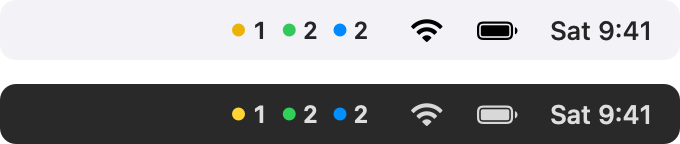
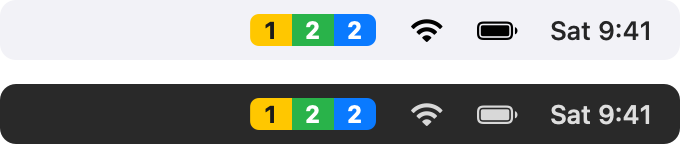
Menu bar badge: solid colour blocks instead of dots
One rounded pill split into yellow, green and blue blocks with the
counts inside. Empty blocks fade so the ones with sessions stand out.
Update the README screenshot and DESIGN.

Changed region(s): [[0.3397, 0.6667, 0.5559, 0.9167], [0.3397, 0.0833, 0.5559, 0.3333]]

diff --git a/app/main.swift b/app/main.swift
@@ -1,6 +1,6 @@
 // Agent Status: the menu bar app.
 //
-// Shows a three-colour badge in the menu bar (waiting for you · running · finished,
+// Shows a three-colour block badge in the menu bar (waiting for you · running · finished,
 // unread) and, on click, a panel listing those sessions. Click a session to jump
 // back to it.
 //
@@ -71,6 +71,20 @@ enum Kind: String, CaseIterable {
         case .running: return .systemGreen
         case .unread: return .systemBlue
         }
+    }
+
+    /// Solid fill for the menu bar block: saturated enough to read at a glance in any menu bar.
+    var blockNSColor: NSColor {
+        switch self {
+        case .waiting: return NSColor(srgbRed: 1.00, green: 0.78, blue: 0.00, alpha: 1)
+        case .running: return NSColor(srgbRed: 0.16, green: 0.70, blue: 0.29, alpha: 1)
+        case .unread: return NSColor(srgbRed: 0.04, green: 0.48, blue: 1.00, alpha: 1)
+        }
+    }
+
+    /// Count colour on a filled block: dark on yellow, white on green and blue.
+    var blockTextNSColor: NSColor {
+        self == .waiting ? NSColor(white: 0.10, alpha: 1) : .white
     }
 
     var dotColor: Color { Color(nsColor: dotNSColor) }
@@ -209,37 +223,37 @@ final class Store: ObservableObject {
 
 // MARK: - Badge
 
-/// Three always-visible status lights (waiting · running · unread) with tabular counts.
+/// One continuous pill of solid colour blocks (waiting · running · unread), each with its count.
+/// Blocks with no sessions are faded so the ones that matter stand out.
 func badgeImage(_ snap: Snapshot) -> NSImage {
-    let dotSize: CGFloat = 6.5
-    let dotTextGap: CGFloat = 3.5
-    let itemGap: CGFloat = 7.5
-    let sidePad: CGFloat = 3
-    let height: CGFloat = 18
+    let height: CGFloat = 18, pillH: CGFloat = 16, radius: CGFloat = 4.5
+    let minSeg: CGFloat = 20, segPad: CGFloat = 6
 
-    let items = Kind.badgeOrder.map { kind -> (Kind, Int, String, NSFont, NSSize) in
+    let items = Kind.badgeOrder.map { kind -> (Kind, Int, String, NSFont, NSSize, CGFloat) in
         let count = snap.count(kind)
         let text = count > 99 ? "99+" : String(count)
-        let font = NSFont.monospacedDigitSystemFont(ofSize: 12, weight: count > 0 ? .semibold : .regular)
+        let font = NSFont.monospacedDigitSystemFont(ofSize: 12, weight: .bold)
         let size = (text as NSString).size(withAttributes: [.font: font])
-        return (kind, count, text, font, size)
+        return (kind, count, text, font, size, max(minSeg, ceil(size.width) + segPad * 2))
     }
-    let contentWidth = items.reduce(CGFloat(0)) { $0 + dotSize + dotTextGap + $1.4.width }
-        + CGFloat(max(0, items.count - 1)) * itemGap
-    let totalWidth = sidePad * 2 + contentWidth
+    let width = items.reduce(CGFloat(0)) { $0 + $1.5 }
 
-    let image = NSImage(size: NSSize(width: ceil(totalWidth), height: height), flipped: false) { _ in
-        var x = sidePad
-        for (kind, count, text, font, size) in items {
-            let dotColor = count > 0 ? kind.dotNSColor : kind.dotNSColor.withAlphaComponent(0.60)
-            dotColor.setFill()
-            NSBezierPath(ovalIn: NSRect(x: x, y: (height - dotSize) / 2, width: dotSize, height: dotSize)).fill()
-            x += dotSize + dotTextGap
+    let image = NSImage(size: NSSize(width: width, height: height), flipped: false) { _ in
+        let pill = NSRect(x: 0, y: (height - pillH) / 2, width: width, height: pillH)
+        let shape = NSBezierPath(roundedRect: pill, xRadius: radius, yRadius: radius)
+        var x: CGFloat = 0
+        for (kind, count, text, font, size, segW) in items {
+            let slice = NSRect(x: x, y: 0, width: segW, height: height)
+            NSGraphicsContext.saveGraphicsState()
+            NSBezierPath(rect: slice).addClip()
+            (count > 0 ? kind.blockNSColor : kind.blockNSColor.withAlphaComponent(0.28)).setFill()
+            shape.fill()
+            NSGraphicsContext.restoreGraphicsState()
 
-            let textColor = count > 0 ? NSColor.labelColor : NSColor.labelColor.withAlphaComponent(0.45)
-            (text as NSString).draw(at: NSPoint(x: x, y: (height - size.height) / 2),
+            let textColor = count > 0 ? kind.blockTextNSColor : NSColor.labelColor.withAlphaComponent(0.5)
+            (text as NSString).draw(at: NSPoint(x: slice.midX - size.width / 2, y: pill.midY - size.height / 2),
                                     withAttributes: [.font: font, .foregroundColor: textColor])
-            x += size.width + itemGap
+            x += segW
         }
         return true
     }

diff --git a/DESIGN.md b/DESIGN.md
@@ -12,7 +12,7 @@
 
 **状态只来自会话本身，不用计时器判断。** 运行再久也是运行中，没看的完成再久也是未读，直到会话真的变了（新事件、对话记录、你在 App 里点开、归档）。唯一的时间限制是记录清理：不显示的记录（已读、中断、已关闭），会话超过 24 小时没有活动就删掉；扫描"还没有记录的会话"也只看最近 24 小时。
 
-菜单栏里是三个彩色圆点，每个后面跟着对应的会话数，例如 `🟡1 🟢2 🔵2`。点开是一个面板，详见第 4 节。截图见 README。
+菜单栏里是一个连在一起的圆角色块，分成黄、绿、蓝三段，每段里写着对应的会话数。点开是一个面板，详见第 4 节。截图见 README。
 
 ## 设计原则
 
@@ -117,7 +117,7 @@ Desktop 和 Codex App 退出时会给会话发 `SessionEnd`。会话本身保留
 
 - **只负责画。** 状态逻辑全在 `bin/agent-status`，App 运行 `agent-status status` 拿 JSON（各类数量 + 要显示的会话），点击时运行 `agent-status open <key>` / `seen-all`。
 - **什么时候刷新：** 用 `DispatchSource` 监听状态目录，hook 写完文件就立即刷新；打开面板时刷新；徽标上有会话时每 30 秒刷新一次（让第 2 节的校正能跟上 Esc、拒绝审批、在 App 里点开这类不发 hook 的变化），没有会话时不做任何定时刷新。一次刷新大约 0.1 秒 CPU。正在跑时又来的刷新请求合并成一次。
-- **徽标：** 黄 / 绿 / 蓝三个圆点，各跟一个等宽数字，三个一直显示；数量为 0 时圆点和数字变淡。用 AppKit 按屏幕倍率直接画，文字用 `labelColor`，跟随菜单栏的深浅色。
+- **徽标：** 一个圆角胶囊，分成黄 / 绿 / 蓝三段实心色块，数字写在色块里（黄底用深色字，绿、蓝底用白字），三段一直显示；数量为 0 的那段颜色变淡，突出有会话的段。用 AppKit 按屏幕倍率直接画，颜色固定，在深浅两种菜单栏里都醒目。
 - **面板：** 三个状态块（等你处理、运行中、已完成未读），点一下只看这一类，再点取消；全部 / Claude / Codex 分段筛选，带各自的会话数；按"等你处理 → 已完成未读 → 运行中"分组的会话行，每行显示应用图标、标题、状态、多久以前、最后一条提示词，点击跳回；底部是"全部已读"（有未读时才出现）、"打开状态目录"和"退出"。会话超过 6 个时列表可滚动。截图见 `docs/images/panel.png`。
 - 面板语言跟随系统（中文或英文）。
 - `AGENT_STATUS_OPEN_PANEL=1` 启动时会自动打开面板并打印窗口号，方便用 `screencapture -l` 截图。

diff --git a/README.md b/README.md
@@ -9,7 +9,7 @@ A macOS menu bar indicator for Claude Code, Codex and Antigravity sessions.
 ![Codex](https://img.shields.io/badge/Codex-CLI%20%26%20app-412991)
 ![Antigravity](https://img.shields.io/badge/Antigravity-experimental-4285F4)
 
-<img src="docs/images/menu-bar.png" width="340" alt="The menu bar badge in a light and a dark menu bar: a yellow dot with 1, a green dot with 2, a blue dot with 2">
+<img src="docs/images/menu-bar.png" width="340" alt="The menu bar badge in a light and a dark menu bar: one pill of a yellow block with 1, a green block with 2 and a blue block with 2">
 
 </div>
 
